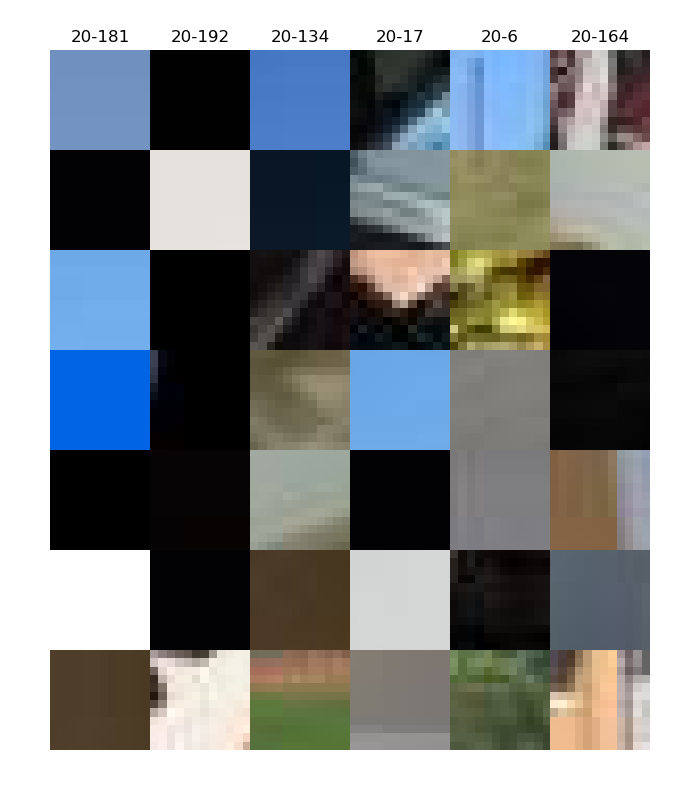
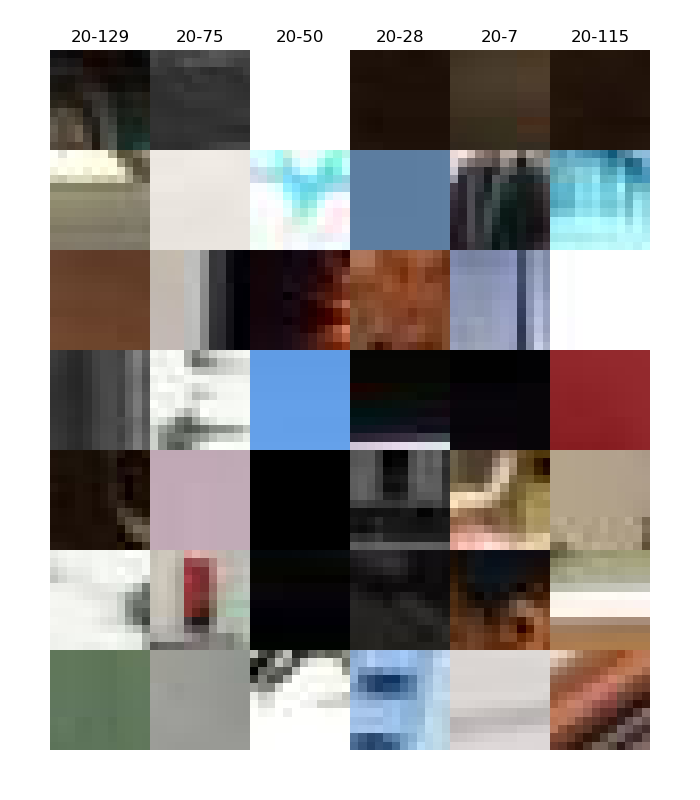
Changed: tried to get better exemplar figures

diff --git a/notebooks/hierarchical_feature_matching.py b/notebooks/hierarchical_feature_matching.py
@@ -28,7 +28,9 @@ def get_receptive_field(cluster, image_path, idx, num_cells, show=False):
     cell_w, cell_h = int(w / side_len), int(h / side_len)
     x, y = idx // side_len * cell_w, idx % side_len * cell_h
     plt.axis('off')
-    if cell_w <= x < (w - cell_w) and cell_h <= y < (h - cell_h):
+    if cell_w * 2 <= x < (w - cell_w * 3) and cell_h * 2 <= y < (y - cell_h * 3):
+        img = img.crop((x - cell_w*2, y - cell_h*2, x + 3 * cell_w, y + 3 * cell_h)).resize((w, h))
+    elif cell_w <= x < (w - cell_w * 2) and cell_h <= y < (h - cell_h * 2):
         img = img.crop((x - cell_w, y - cell_h, x + 2 * cell_w, y + 2 * cell_h)).resize((w, h))
     else:
         img = img.crop((x, y, x + cell_w, y + cell_h)).resize((w, h))
@@ -59,9 +61,13 @@ for target_layer in layers:
     model = models.vgg16_bn(pretrained=True).cuda()
     for test_mode in [False, True]:
         if test_mode:
+            ignore_count = 10
+            i = 0
             while len(test_clusters) < num_test_clusters:
-                test_clusters.append(np.argmax(cluster_scores))
-                cluster_scores[test_clusters[-1]] = 0
+                if i >= ignore_count:
+                    test_clusters.append(np.argmax(cluster_scores))
+                i += 1
+                cluster_scores[np.argmax(cluster_scores)] = 0
             exemplars = {cluster: [] for cluster in test_clusters}
         num_images = num_test_images if test_mode else num_validation_images
         for image_path in tqdm(images[:num_images], file=sys.stdout):
